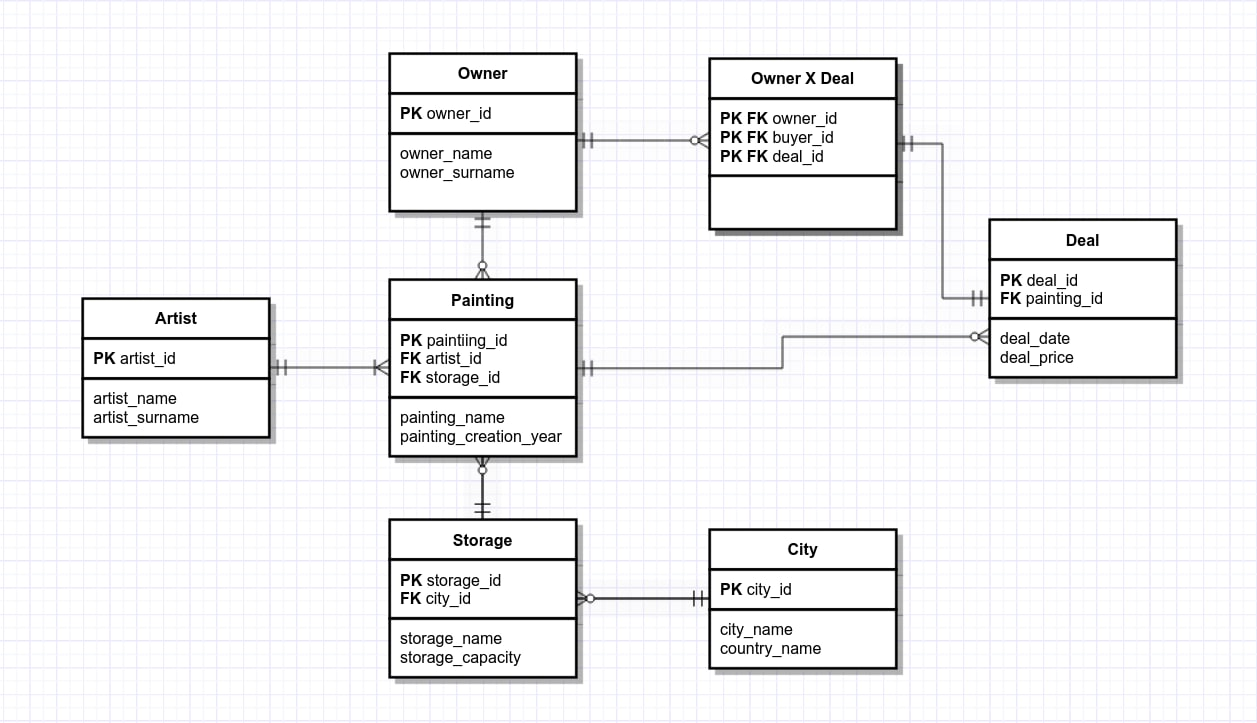
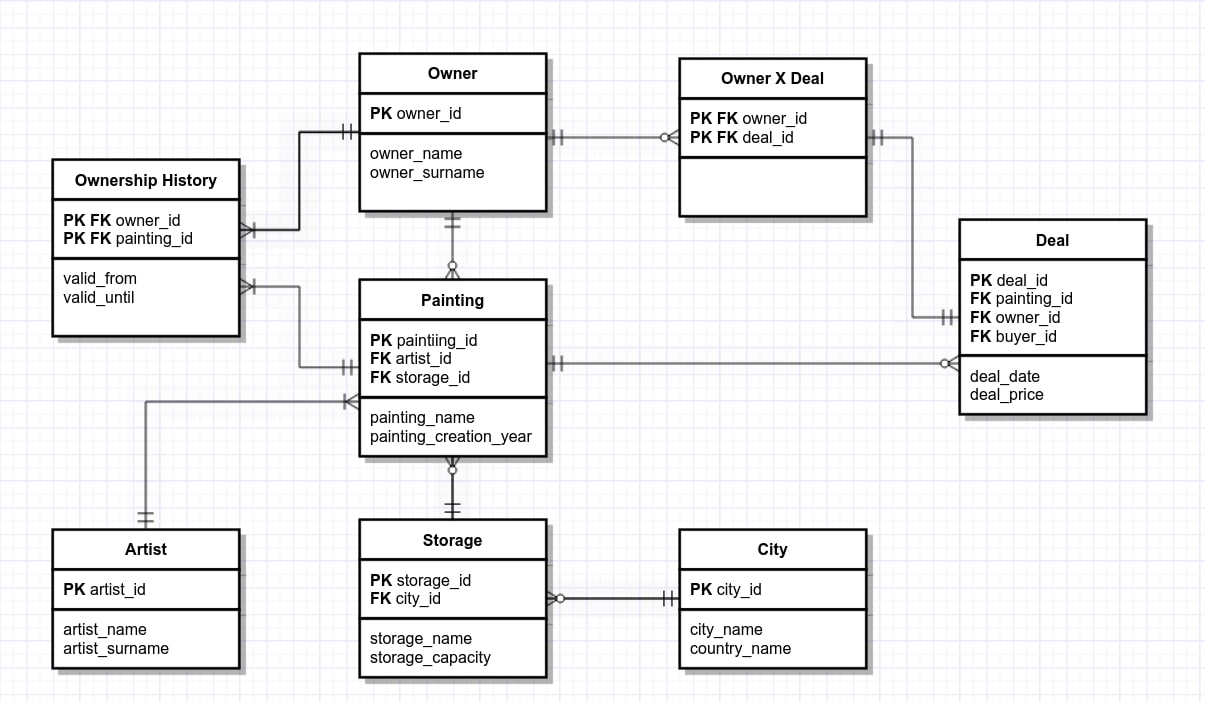
3

Changed region(s): [[0.0307, 0.0598, 0.9826, 0.9872]]

diff --git a/README.md b/README.md
@@ -15,7 +15,7 @@
 ![](2a.jpg)
 
 #### b. 
-![](2b.jpg)
+![](2b_ver2.jpg)
 
 #### c.
 | **Artist** |                |                          |          |                |
@@ -64,9 +64,16 @@
 |           | deal_date   | Дата проведения сделки | DATE     | CHECK(deal_date <= GETDATE())                         |
 |           | deal_price  | Стоимость картины      | INTEGER  | СHECK(deal_price >= 0)              |
 
-| **Deal**  |          |                         |          |                               |
+| **Owner X Deal**  |          |                         |          |                               |
 |-----------|----------|-------------------------|----------|-------------------------------|
 | **PK/FK** | **Name** | **Description**         | **Type** | **Constraint**                |
-| PK FK     | deal_id  | Индентификатор сделки   | INTEGER  | FK references Owner(owner_id) |
+| PK FK     | deal_id  | Индентификатор сделки   | INTEGER  | FK references Deal(deal_id) |
 | PK FK     | owner_id | Идентификатор участника сделки | INTEGER  | FK references Owner(owner_id) |
 
+| **Ownership history** |             |                          |          |                                     |
+|-----------------------|-------------|--------------------------|----------|-------------------------------------|
+| **PK/FK**             | **Name**    | **Description**          | **Type** | **Constraint**                      |
+| PK FK                 | owner_id    | Индентификатор владельца | INTEGER  | FK references Owner(owner_id)       |
+| PK FK                 | painting_id | Идентификатор картины    | INTEGER  | FK references Painting(painting_id) |
+|                       | valid_from  | Дата начала владения     | DATE     | CHECK(deal_date <= GETDATE()) |
+|                       | valid_until | Дата оканчания владения  | DATE     |  CHECK(deal_date <= GETDATE())     |
